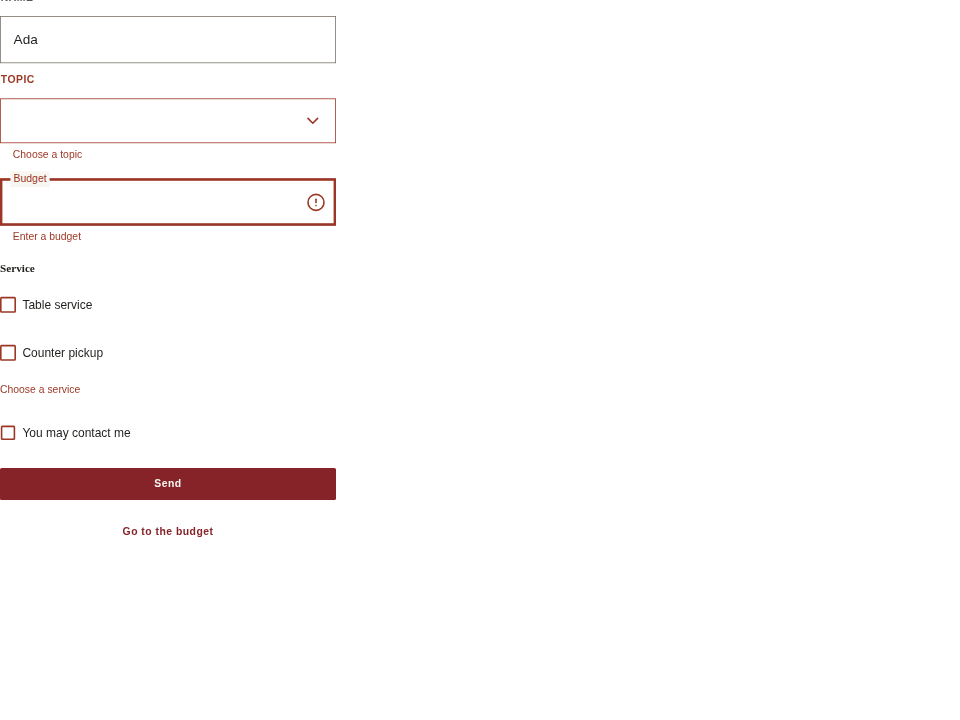
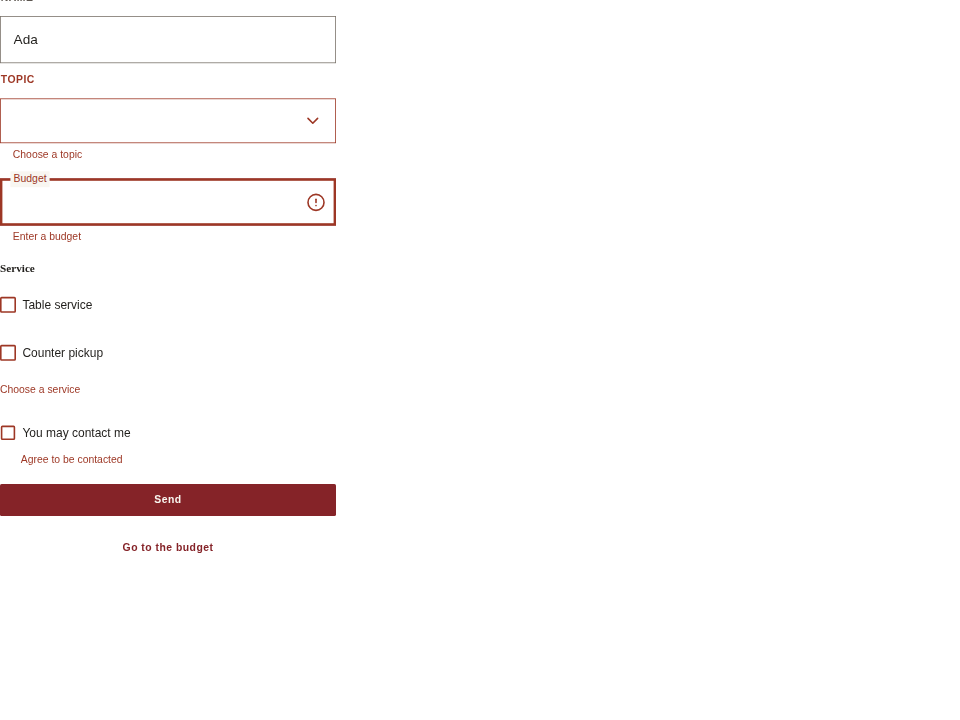
Checkbox: a box that stands alone shows its own error message
A lone Checkbox took isInvalid and had nowhere to say what was wrong: only
CheckboxGroup had an errorMessage, and a group of one is not a consent. Two
of the baseline's builders wrote the message by hand and tied it to the box.

Checkbox takes errorMessage: shown under the box while it is invalid, under
the label's text, and tied to the box as its description. Without one the
box is rendered as before. The react-hook-form adapter's FormCheckbox passes
the field's message.

Changed region(s): [[0.0, 0.6111, 0.375, 0.7639]]

diff --git a/components/Checkbox.tsx b/components/Checkbox.tsx
@@ -1,6 +1,6 @@
 "use client";
 
-import type { ReactNode } from "react";
+import { type ReactNode, useId } from "react";
 import {
   Checkbox as AriaCheckbox,
   CheckboxGroup as AriaCheckboxGroup,
@@ -61,6 +61,10 @@ export type CheckboxProps = Omit<
 > & {
   children?: ReactNode;
   className?: string;
+  /** What is wrong, shown under the box while `isInvalid` and read with it:
+   *  for a box that stands alone (a consent, "I accept the terms"). A set
+   *  of boxes takes its message on `CheckboxGroup`. */
+  errorMessage?: string;
 };
 
 /**
@@ -69,13 +73,32 @@ export type CheckboxProps = Omit<
  * an optional label that also toggles it. `CheckboxGroup` adds a group label,
  * supporting text and an error message.
  *
+ * A box alone that must be ticked takes `isRequired`, `isInvalid` and its
+ * own `errorMessage`:
+ *
+ *   <Checkbox isRequired isInvalid={!accepted} errorMessage="Accept the terms to continue">
+ *     I accept the terms
+ *   </Checkbox>
+ *
  * Spec: https://m3.material.io/components/checkbox/{overview,specs,guidelines,accessibility}
  */
-export function Checkbox({ children, className, ...props }: CheckboxProps) {
-  return (
+export function Checkbox({
+  children,
+  className,
+  errorMessage,
+  ...props
+}: CheckboxProps) {
+  const errorId = useId();
+  const showError = !!errorMessage && !!props.isInvalid;
+  const box = (
     <AriaCheckbox
       data-slot="checkbox"
       {...props}
+      aria-describedby={
+        [props["aria-describedby"], showError && errorId]
+          .filter(Boolean)
+          .join(" ") || undefined
+      }
       className={composeTailwindRenderProps(className, styles().base())}
     >
       {composeRenderProps(
@@ -100,6 +123,21 @@ export function Checkbox({ children, className, ...props }: CheckboxProps) {
         },
       )}
     </AriaCheckbox>
+  );
+  if (!showError) return box;
+  // The message is outside the label, so a press on it does not tick the
+  // box, and under the label's text: 18dp of box and 8dp of gap in.
+  return (
+    <span data-slot="checkbox-field" className="inline-flex flex-col">
+      {box}
+      <span
+        id={errorId}
+        data-slot="checkbox-error"
+        className="text-body-small font-body-small text-error pl-[26px]"
+      >
+        {errorMessage}
+      </span>
+    </span>
   );
 }
 

diff --git a/stories/text-inputs/Form.stories.tsx b/stories/text-inputs/Form.stories.tsx
@@ -324,6 +324,9 @@ export const RulesAndFocusOnTheFirstError: Story = {
 
     await userEvent.click(send);
     await expect(await canvas.findByText("Enter your name")).toBeVisible();
+    // A box alone shows its own message, and is described by it.
+    const consent = canvas.getByRole("checkbox", { name: "You may contact me" });
+    await expect(consent).toHaveAccessibleDescription("Agree to be contacted");
     await expect(canvas.getByText("Choose a topic")).toBeVisible();
     await waitFor(() =>
       expect(canvas.getByRole("textbox", { name: /Name/ })).toHaveFocus(),

diff --git a/adapters/react-hook-form.tsx b/adapters/react-hook-form.tsx
@@ -283,6 +283,7 @@ export function FormCheckbox<TValues extends FieldValues>({
             onChange={field.onChange}
             onBlur={field.onBlur}
             isInvalid={fieldState.invalid}
+            errorMessage={fieldState.error?.message}
           />
         </>
       )}
